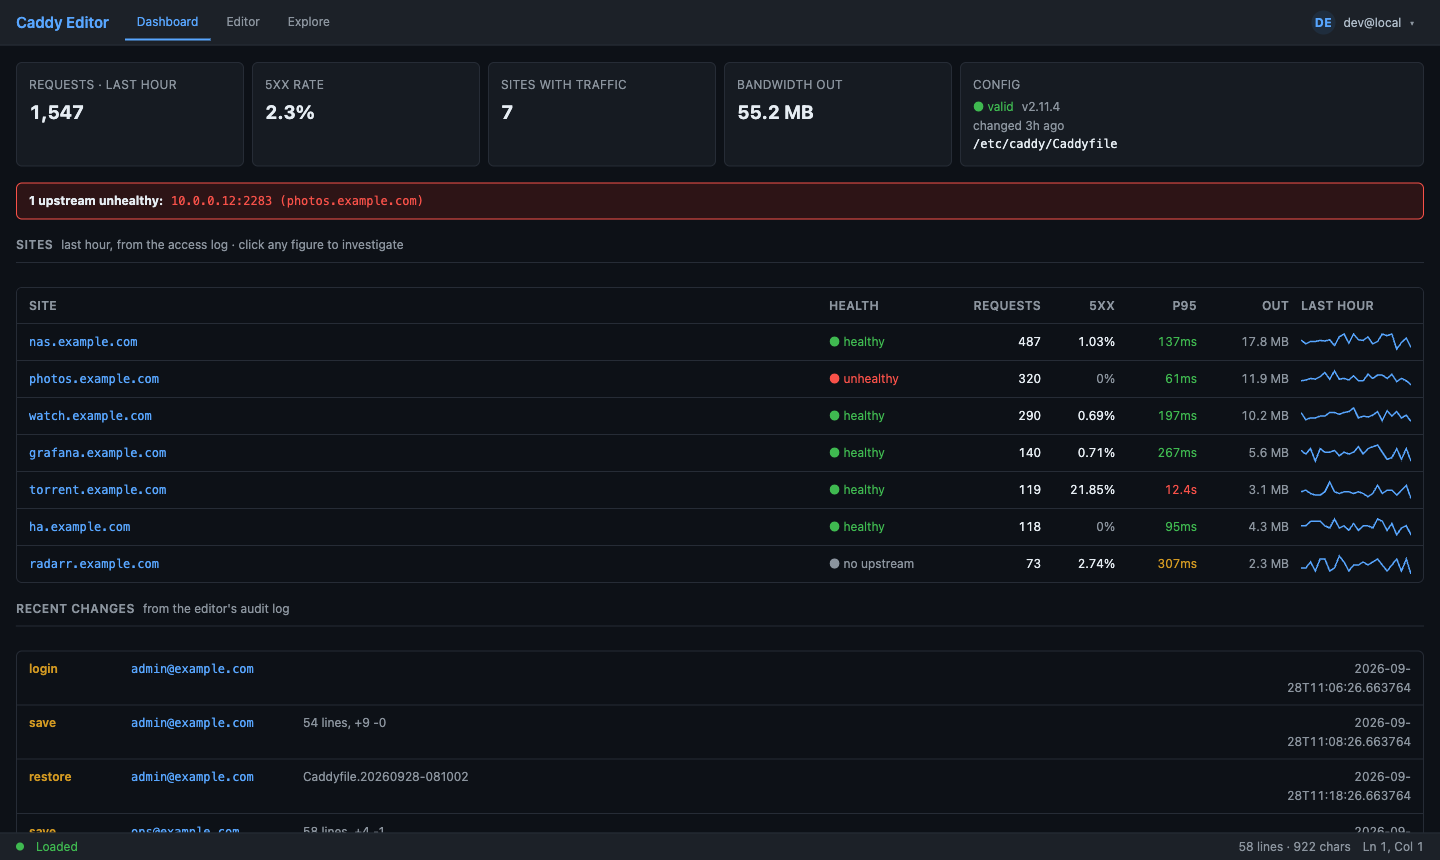
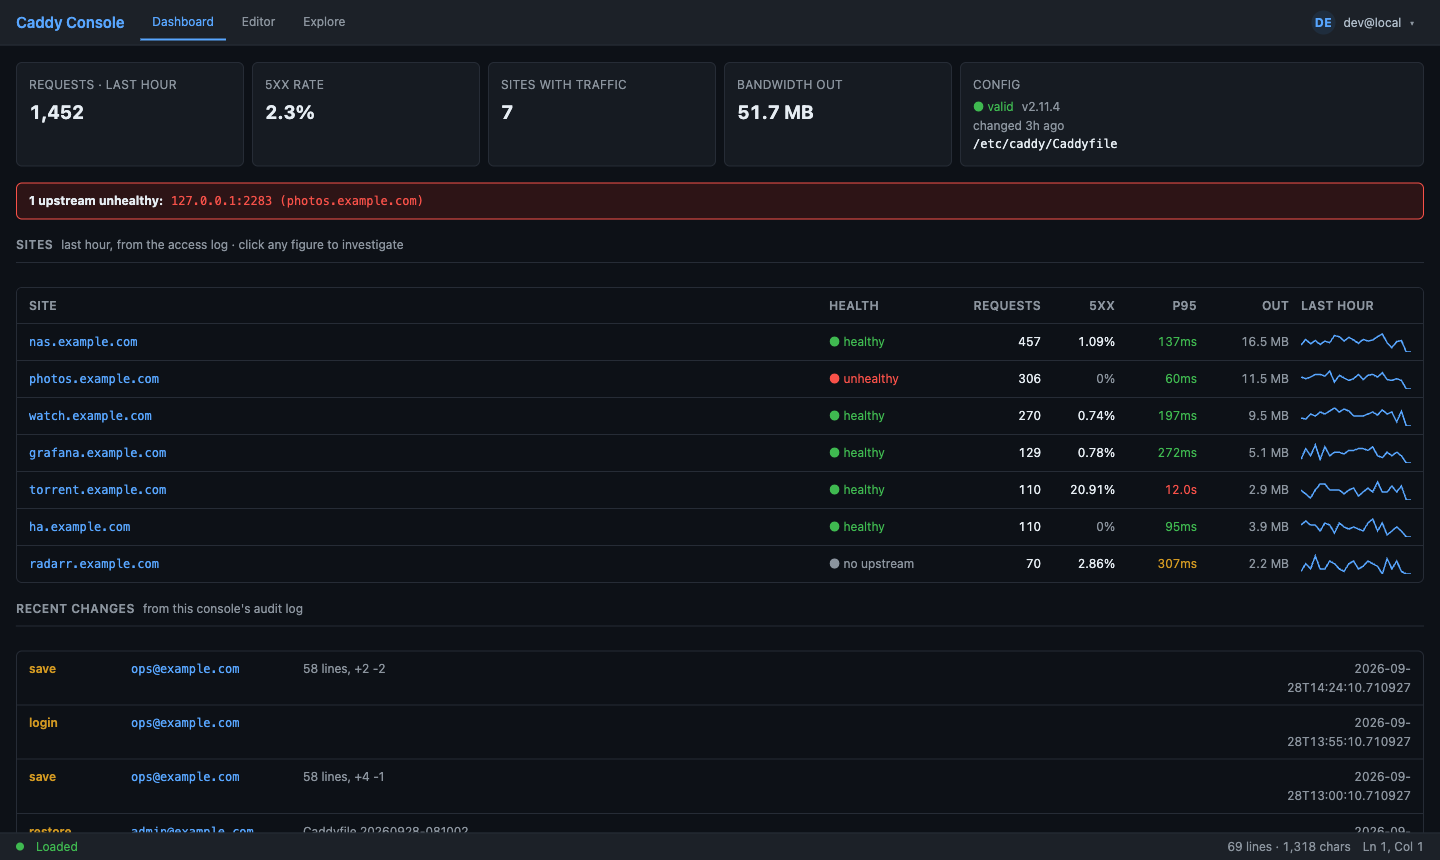
rename: Caddy Editor is now Caddy Console
The app stopped being only an editor a while ago: it edits the Caddyfile, shows
per-site health, and has a faceted log explorer. "Console" covers all three;
"editor" now names just one of the views.

- Display name, page title, README and docs.
- Package names (pyproject, package.json), compose service and project names,
  the prod `console` network, and the dev scripts.
- GitHub repo renamed to ViralOne/caddy-console, so the workflow's
  `IMAGE_NAME: ${{ github.repository }}` publishes to
  ghcr.io/viralone/caddy-console from the next push. The old package keeps its
  existing tags; nothing was deleted.
- No environment variable changed, so existing .env files keep working.
- Screenshots regenerated against seeded data, and a stale comment about the
  Logs panel (deleted several commits ago) fixed while passing through.

diff --git a/src/templates/index.html b/src/templates/index.html
@@ -4,14 +4,14 @@
 <meta charset="UTF-8">
 <meta name="viewport" content="width=device-width, initial-scale=1.0">
 <meta name="csrf-token" content="{{ csrf_token }}">
-<title>Caddy Editor</title>
+<title>Caddy Console</title>
 <link rel="stylesheet" href="/static/css/tokens.css">
 <link rel="stylesheet" href="/static/css/style.css">
 </head>
 <body>
 
 <div class="header">
-  <a class="brand" data-view="dashboard" href="/">Caddy Editor</a>
+  <a class="brand" data-view="dashboard" href="/">Caddy Console</a>
 
   <nav class="tabs">
     <a class="tab" data-view="dashboard" href="/">Dashboard</a>

diff --git a/src/static/js/app/dashboard.js b/src/static/js/app/dashboard.js
@@ -205,7 +205,7 @@ function App() {
 
       <div class="section-title">
         <span>Recent changes</span>
-        <span class="section-basis">from the editor's audit log</span>
+        <span class="section-basis">from this console's audit log</span>
       </div>
       ${(() => {
         const entries = (data.audit?.entries || []).slice(0, 8);

diff --git a/tests/_env.py b/tests/_env.py
@@ -7,7 +7,7 @@ so the tests never touch /etc/caddy or /backups.
 import os
 import tempfile
 
-ROOT = tempfile.mkdtemp(prefix="caddy-editor-test-")
+ROOT = tempfile.mkdtemp(prefix="caddy-console-test-")
 BACKUP_DIR = os.path.join(ROOT, "backups")
 CADDYFILE = os.path.join(ROOT, "Caddyfile")
 AUDIT_LOG = os.path.join(BACKUP_DIR, "audit.log")

diff --git a/docs/setup.md b/docs/setup.md
@@ -1,29 +1,29 @@
 # Setup
 
-How to get Caddy Editor running against a real Caddy instance. If you just want
+How to get Caddy Console running against a real Caddy instance. If you just want
 to poke at it locally, see [development.md](development.md) instead.
 
 ## What you end up with
 
 ```
-internet → Cloudflare Access (auth) → cloudflared tunnel → caddy-editor:9090
+internet → Cloudflare Access (auth) → cloudflared tunnel → caddy-console:9090
 internet → Cloudflare proxy (SSL)  → caddy:80/443       → your services
 ```
 
 Three containers:
 
 - **caddy** — the reverse proxy serving your sites (ports 80/443)
-- **caddy-editor** — the web UI (no port published; reached through the tunnel)
-- **cloudflared** — the tunnel that exposes the editor without opening a port
+- **caddy-console** — the web UI (no port published; reached through the tunnel)
+- **cloudflared** — the tunnel that exposes the console without opening a port
 
 All three share the same `./Caddyfile` through volume mounts. Saving in the UI
 rewrites that file and reloads Caddy through its admin API
 (`POST http://caddy:2019/load`), so there is no downtime and no container restart.
 
-`docker-compose.prod.yaml` puts the editor and the tunnel on their own `editor`
-network. Caddy sits on both `editor` and `default`, so the containers you proxy to
+`docker-compose.prod.yaml` puts the console and the tunnel on their own `console`
+network. Caddy sits on both `console` and `default`, so the containers you proxy to
 can live on `default` and be reachable by Caddy **without** being able to reach the
-editor or Caddy's admin API.
+console or Caddy's admin API.
 
 ## 1. Start it
 
@@ -93,7 +93,7 @@ app.yourdomain.com {
 }
 ```
 
-The `caddy-logs` volume is shared between the Caddy and editor containers, which
+The `caddy-logs` volume is shared between the Caddy and console containers, which
 both compose files already configure. To use a different path, set
 `CADDY_LOG_FILE` in `.env` to match your Caddyfile.
 
@@ -174,7 +174,7 @@ dashboard uses for server-level counters:
 1. Add your domain to Cloudflare (nameservers must point to CF)
 2. SSL/TLS mode → **Full** (Caddy uses local certs, CF handles public SSL)
 3. Zero Trust → Tunnels → create tunnel, copy token to `CLOUDFLARE_TUNNEL_TOKEN`
-4. Tunnel public hostname: `ceditor.yourdomain.com` → `http://caddy-editor:9090`
+4. Tunnel public hostname: `caddy-console.yourdomain.com` → `http://caddy-console:9090`
 5. Zero Trust → Access → Applications → add policy (email OTP for your allowed emails)
 6. Open the application, click on Application settings (tab) -> AUD tag into `CF_ACCESS_TEAM_DOMAIN`
 
@@ -213,8 +213,8 @@ docker compose -f docker-compose.prod.yaml up -d
 docker compose -f docker-compose.prod.yaml logs -f
 
 # Update (pull new image from GHCR)
-docker compose -f docker-compose.prod.yaml pull caddy-editor
-docker compose -f docker-compose.prod.yaml up -d caddy-editor
+docker compose -f docker-compose.prod.yaml pull caddy-console
+docker compose -f docker-compose.prod.yaml up -d caddy-console
 
 # Restart caddy (only needed for admin address changes or image upgrades)
 docker compose -f docker-compose.prod.yaml restart caddy

diff --git a/docs/development.md b/docs/development.md
@@ -18,15 +18,15 @@ Then open <http://localhost:8888>. It starts three containers:
 | Container | Role |
 |---|---|
 | `caddy-front` | Stands in for Cloudflare Access; the only thing you browse to |
-| `caddy-editor` | The app, with `--reload` and `./src` bind-mounted |
+| `caddy-console` | The app, with `--reload` and `./src` bind-mounted |
 | `caddy-target` | The Caddy whose config you are editing, on :8081 |
 
-`dev/run/Caddyfile` is the file the editor reads and writes, copied from
+`dev/run/Caddyfile` is the file the console reads and writes, copied from
 `dev/Caddyfile.seed` on first run — so saving in the UI never dirties the seed.
 
 Python edits reload automatically. CSS, template and JS edits need a browser
 refresh; **Jinja caches templates outside debug mode**, so a change to
-`index.html` needs `docker compose -f docker-compose.dev.yaml restart caddy-editor`.
+`index.html` needs `docker compose -f docker-compose.dev.yaml restart caddy-console`.
 
 ## Seeding log data
 
